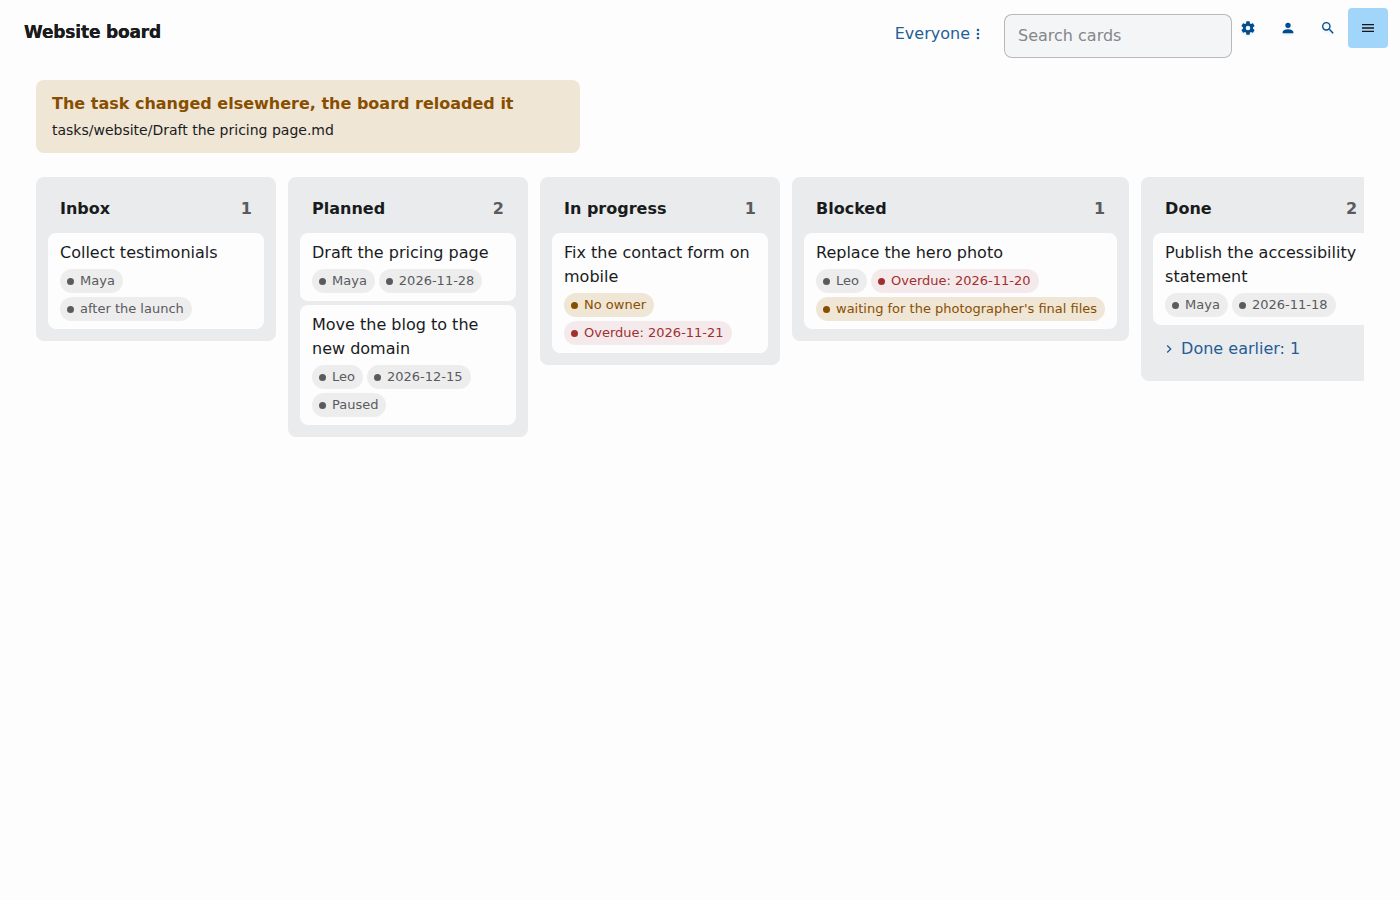
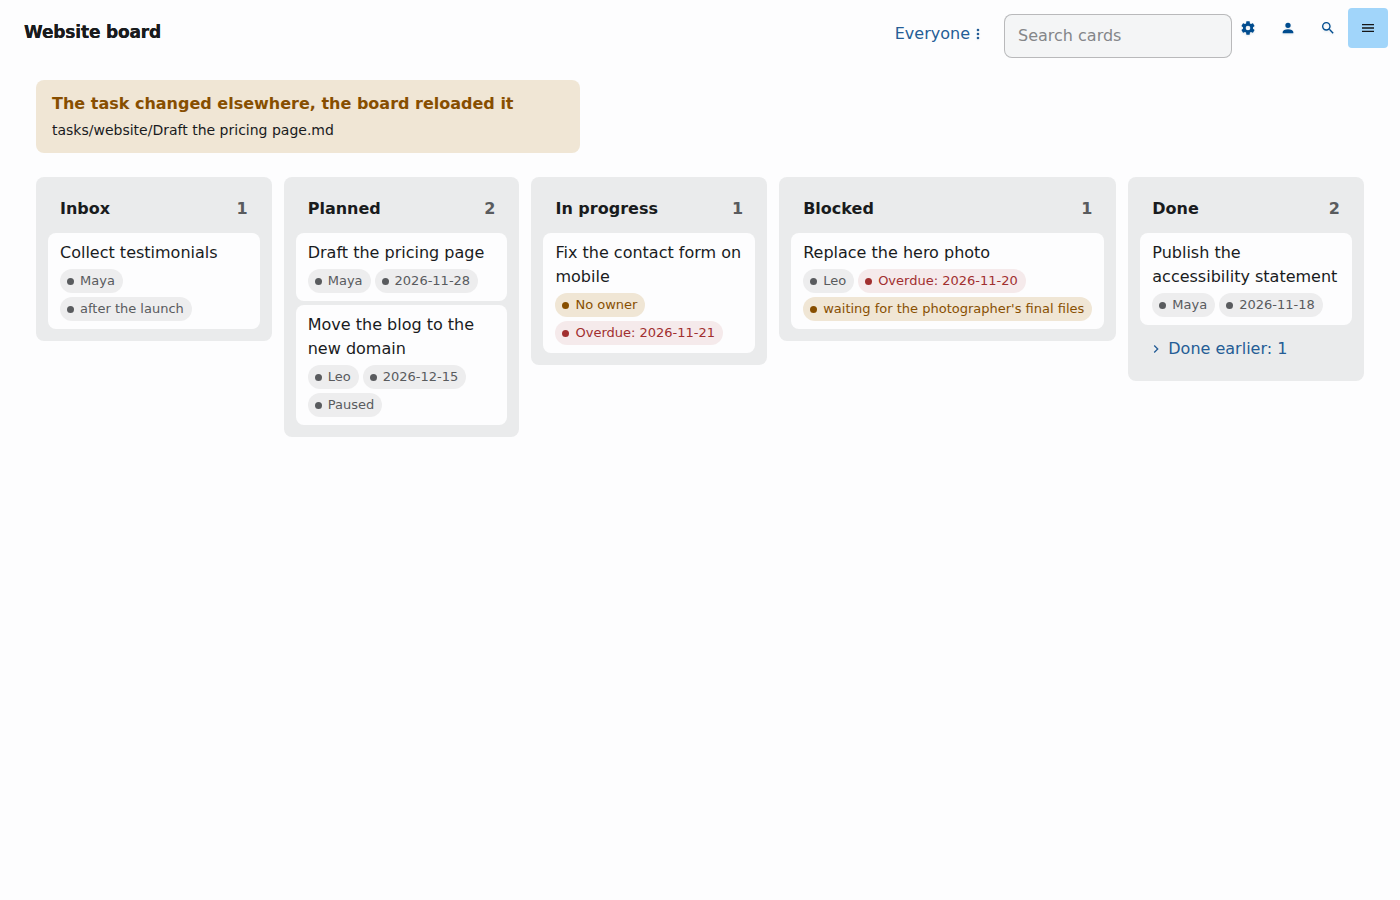
Refusal names the cause; columns fill the width; screenshots retaken

diff --git a/ui/gql/gql.ts b/ui/gql/gql.ts
@@ -5,9 +5,8 @@ namespace $ {
 	}
 
 	export class $trip2gtasks_gql_error extends Error {
-		constructor(message: string, public detail?: { message: string, path?: string[] }[]) {
-			for (const err of detail ?? []) message += `. ${err.message}`
-			super(message)
+		constructor(public detail: { message: string, path?: string[] }[]) {
+			super(detail.map(err => err.message).join('. '))
 		}
 	}
 
@@ -37,7 +36,7 @@ namespace $ {
 			body: JSON.stringify({ query, variables }),
 		}) as { data?: unknown, errors?: { message: string, path?: string[] }[] }
 
-		if (res.errors) throw new $trip2gtasks_gql_error('GraphQL Error', res.errors)
+		if (res.errors) throw new $trip2gtasks_gql_error(res.errors)
 
 		if (mutation && revalidate) $trip2gtasks_gql_marker_bump()
 

diff --git a/ui/board/board.view.ts b/ui/board/board.view.ts
@@ -352,7 +352,8 @@ namespace $.$$ {
 			} catch (error) {
 				if ($mol_promise_like(error)) $mol_fail_hidden(error)
 				this.forget(path)
-				this.notice({ title: this.refused_label(), text: (error as Error).message, tone: 'bad' })
+				const reason = error instanceof $trip2gtasks_gql_error ? this.no_rights_label().replace('{reason}', error.message) : (error as Error).message
+				this.notice({ title: this.refused_label(), text: reason, tone: 'bad' })
 			}
 		}
 

diff --git a/ui/board/board.view.css b/ui/board/board.view.css
@@ -25,7 +25,8 @@
 }
 
 [trip2gtasks_board_column] {
-	flex: 0 0 min(15rem, 80vw);
+	flex: 1 0 min(14rem, 80vw);
+	max-width: 22rem;
 	border-radius: var(--airkit_radius);
 	background: var(--airkit_ground);
 }

diff --git a/screenshots/README.md b/screenshots/README.md
@@ -1,6 +1,6 @@
 # Screenshots
 
-Taken on a local trip2g (main, `a2fc7061`) with the `example/` vault, 2026-11-23. Each line names what the picture proves.
+Taken on a local trip2g (main, `a2fc7061`) with the `example/` vault, 2026-11-23. Each line names what the picture proves. The task note in the side panel is the site's own page for that note, drawn in the site's theme, which here is dark.
 
 - `01-board-light-desktop.png` — task: board `layout: tasks` — columns by status with cards showing owner, due (overdue in red), blocked reason, pause, light scheme, desktop.
 - `02-board-dark-desktop.png` — task: dark scheme — the same board in the dark scheme.
@@ -16,5 +16,6 @@ Taken on a local trip2g (main, `a2fc7061`) with the `example/` vault, 2026-11-23
 - `11-boards-dark-mobile.png` — task: all boards on mobile, dark — the same page at 390 px.
 - `12-guest-read-only.png` — task: read-only for visitors — a signed-out visitor sees the cards and «Sign in to move cards», the sign-in button in the corner.
 - `13-conflict-reloaded.png` — task: on a conflict the board reloads — the note was changed from outside, the drag was not written, the board says so and shows the card where the note says.
-- `14-refused-reverted.png` — task: on a refusal the card goes back with a message — the session was dropped before the drag; the card is back in Inbox and the board shows the server's refusal.
-- `15-mobile-move-by-switch.png` — task: changing status without drag on a phone — «Planned» picked in the task panel's column switch.
+- `14-refused-reverted.png` — task: on a refusal the card goes back with a message — the session was dropped, then «Collect testimonials» was dragged from Inbox to Done; it stands in Inbox again and the board says the site refused the save and why.
+- `15-mobile-move-by-switch.png` — task: changing status without drag on a phone — «Planned» picked in the task panel's column switch for «Collect testimonials».
+- `16-board-after-switch.png` — task: the switch saved the status — the reloaded board shows «Collect testimonials» in Planned, Inbox empty.
